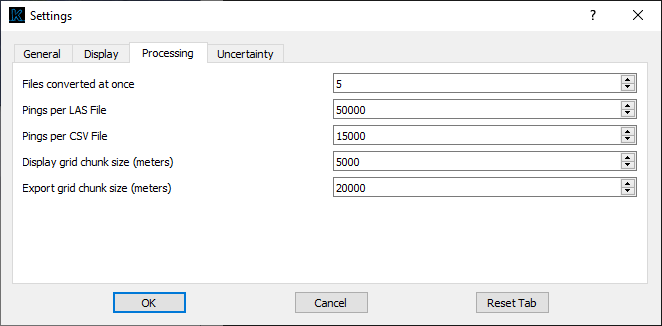
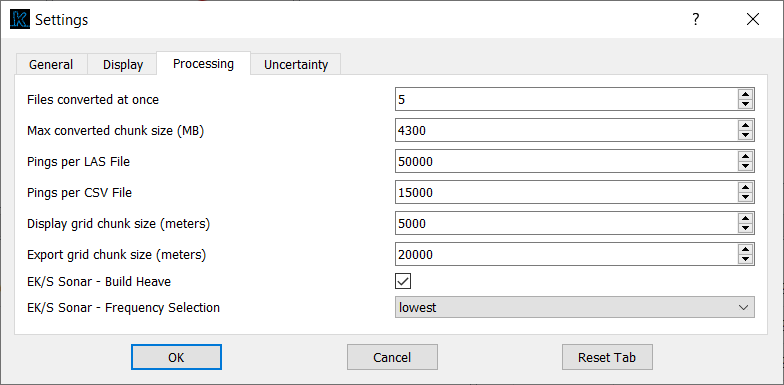
update docs for new settings

diff --git a/docs/settings/index.rst b/docs/settings/index.rst
@@ -90,7 +90,11 @@ Color of the soundings in Points View when colored by rejected and a sounding ha
 
 - Files converted at once
 
-The number of files that are converted at once, you can raise this if you have the memory to support it.  Can cause errors if you run out of memory.
+Conversion will convert this many files at once (within "Max converted chunk size" limit), raising this value can create memory issues in Kluster.
+
+- Max Converted Chunk Size (MB)
+
+Conversion will convert "Files converted at once" files at a time, where the total group file size is within this limit (in megabytes), raising this value can create memory issues in Kluster.
 
 - Pings per LAS file
 
@@ -107,6 +111,14 @@ Loading a grid layer will load the grid in chunks of this size, raising this val
 - Export grid chunk size
 
 Exporting a grid will save one chunk to a file, the chunk being this wide/high. raising this value can create overly large files for the backend and increase memory consumption.
+
+- EK/S Sonar - Build Heave
+
+EK/S 60/80 systems that use the raw file driver.  Will build a heave record using the traveltime/range during conversion.  Experimental, use at your own risk.
+
+- EK/S Sonar - Frequency Selection
+
+EK/S 60/80 systems that use the raw file driver.  Will select the lowest or highest frequency channel bottom detection.
 
 .. image:: settings_1_4.png
    :target: ../_images/settings_1_4.png
@@ -140,7 +152,6 @@ Percent transparency to apply to the surface layer(s)
 - Color Ranges
 
 With a populated surface, this shows the min/max that is used to color the surface in the map view.  You can override the min/max for a layer by selecting the override box and then entering in new values.
-
 
 Project Settings
 ----------------
